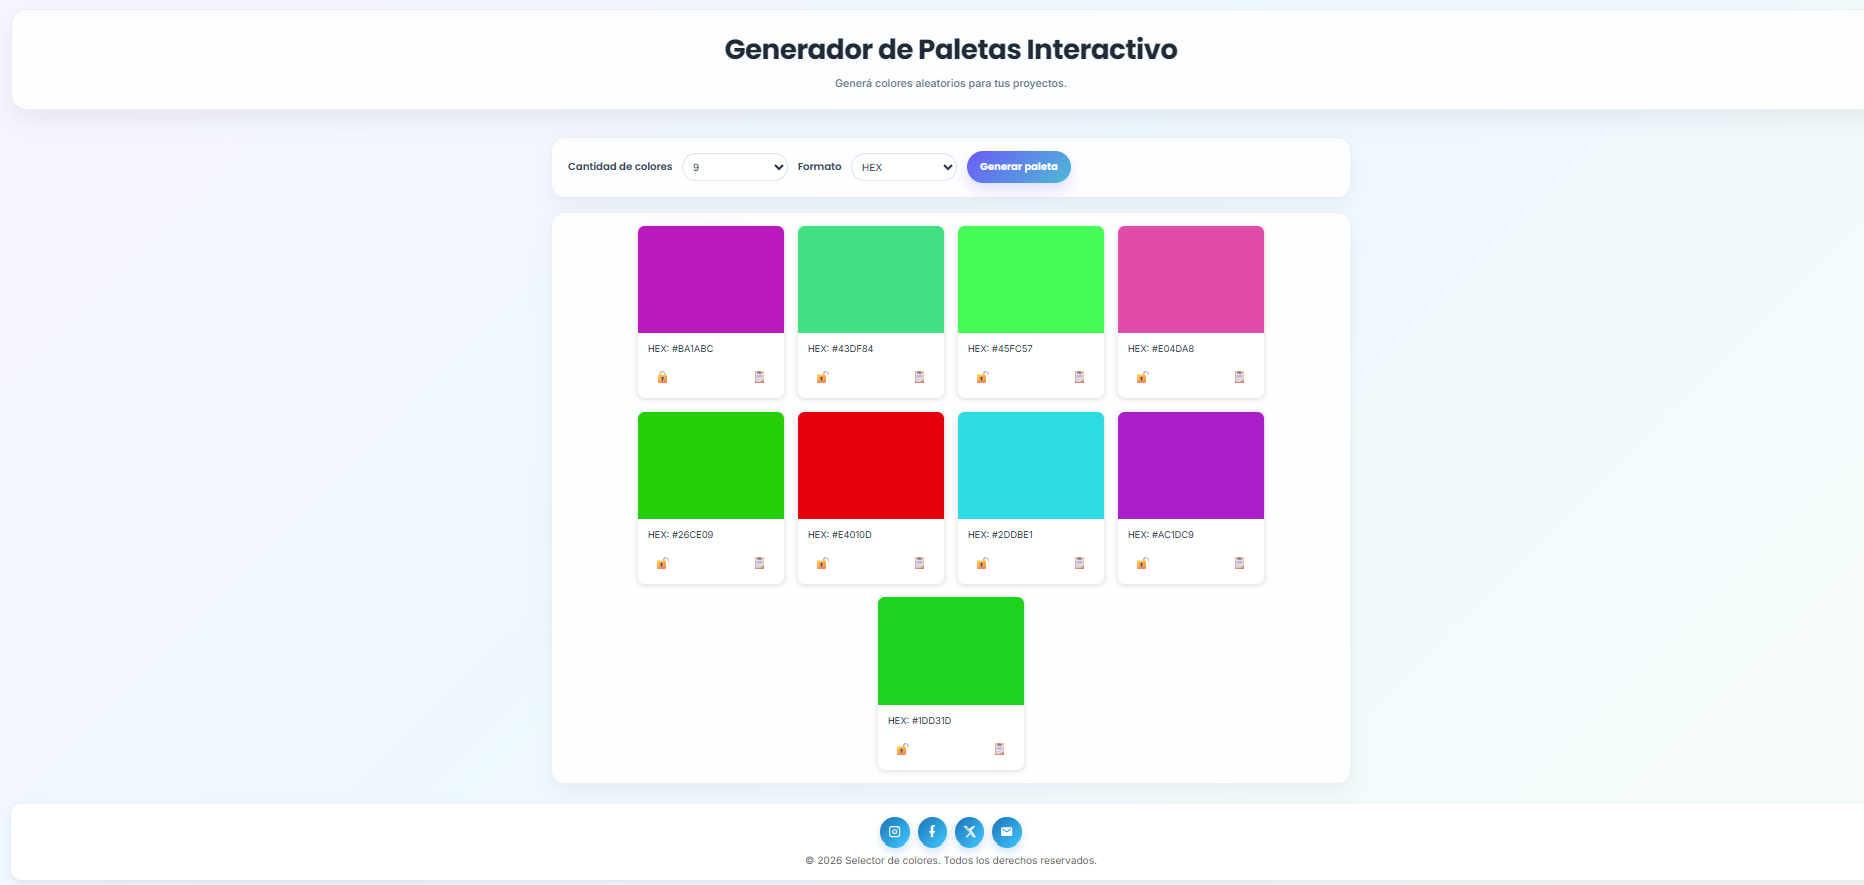
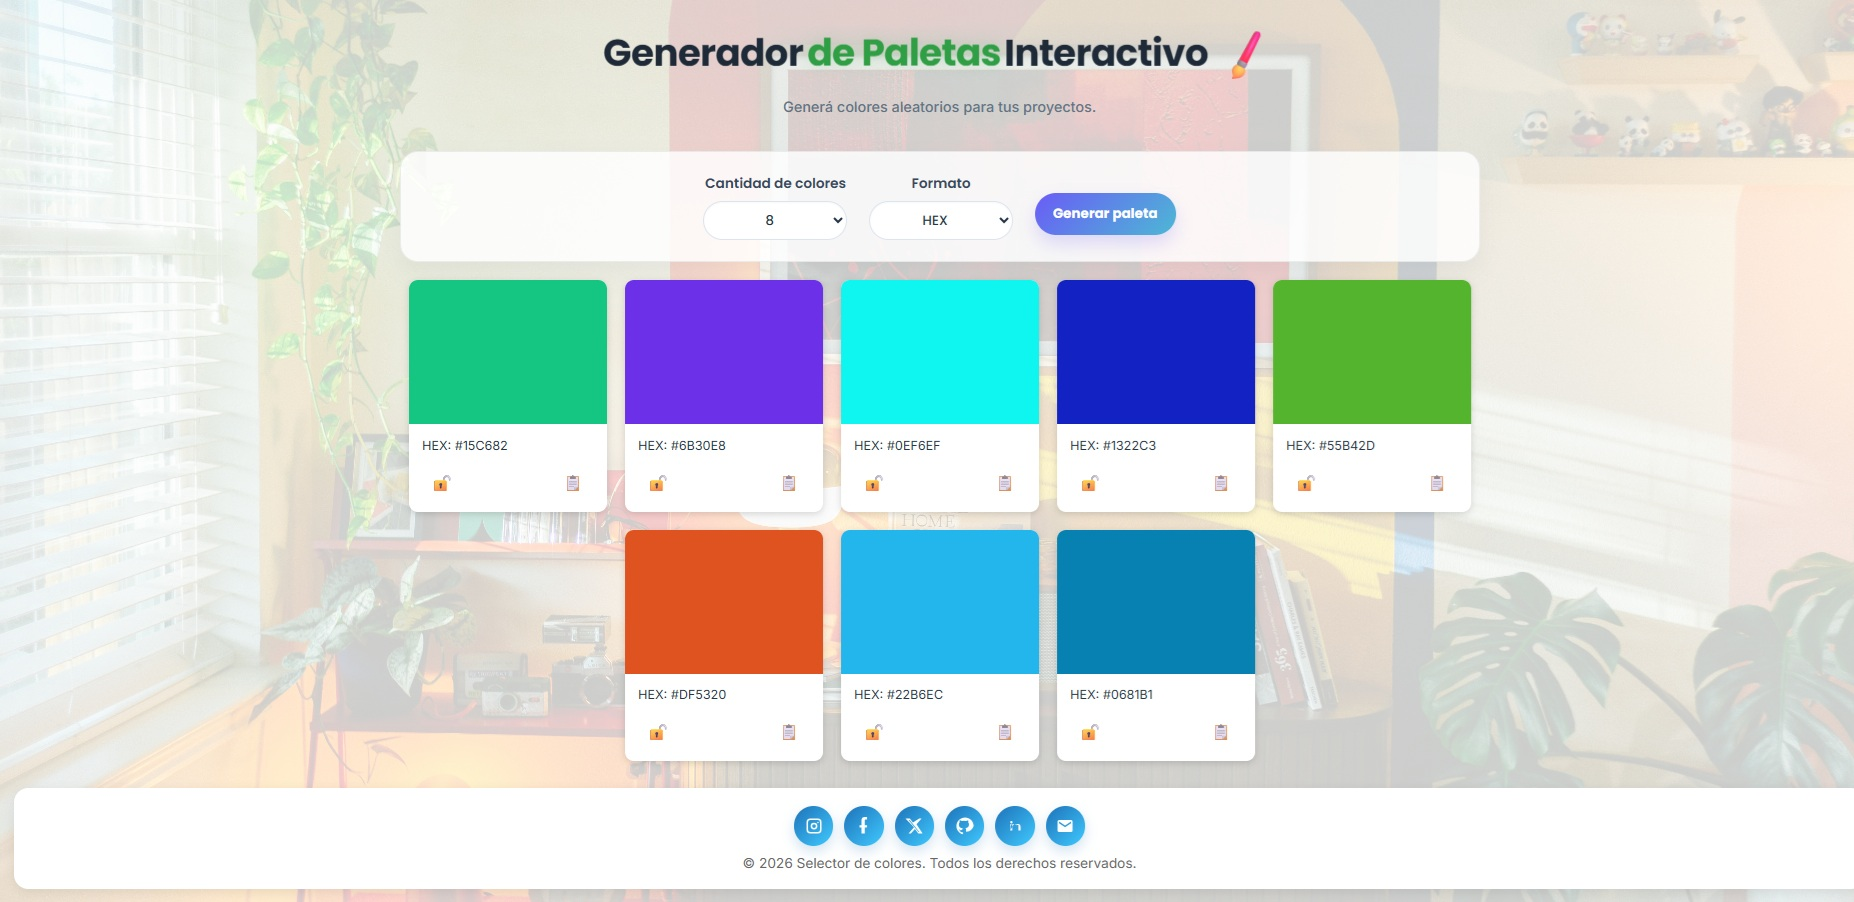
cambio screenshot README

diff --git a/readme.md b/readme.md
@@ -54,9 +54,15 @@ https://rodrigoromero01.github.io/ProyectoM1_RodrigoRomero/
 ├── README.md
 │
 └── css
+│    │
 │    └── styles.css
+│
+└── images
+│     │
+│     └── fondoweb.jpg
 └── assets
-│    └── screenshot.png
+│     │
+│     └── screenshot.png
 └── docs
     └── ia-consulta-01.jpg
     └── ia-consulta-02.jpg